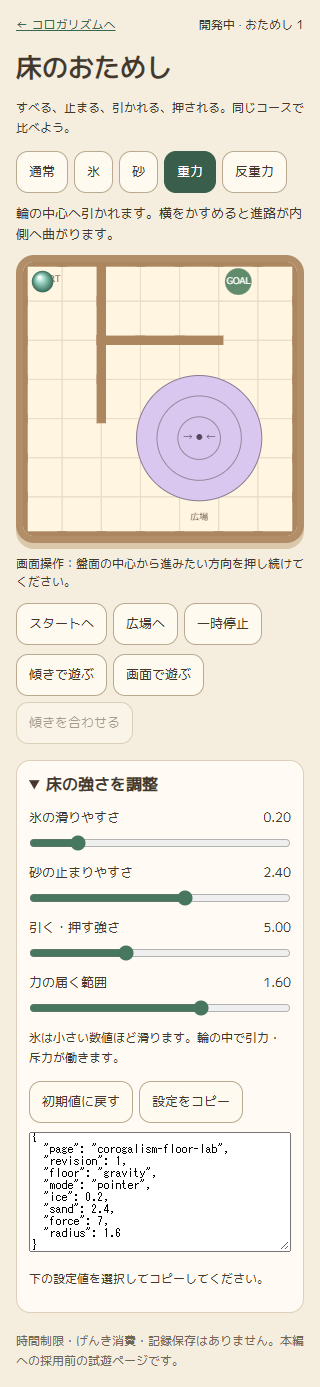
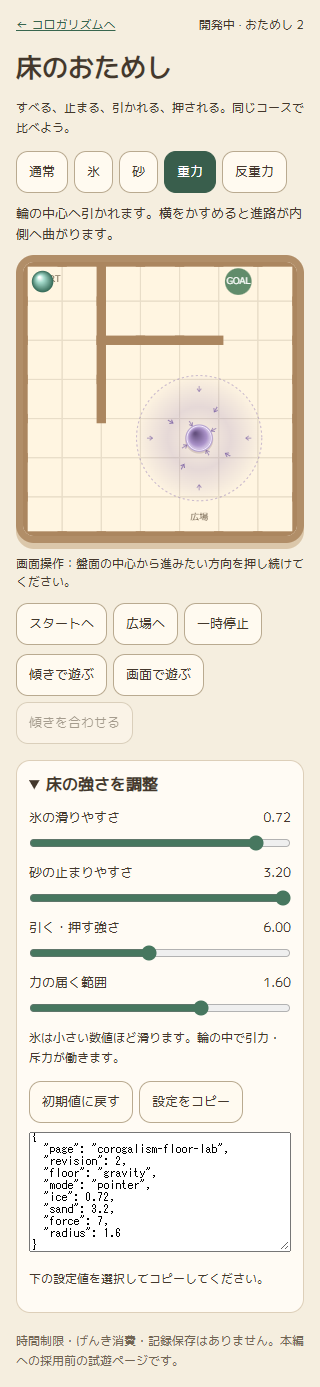
feat(T-248): visualize floor textures and radial forces

Changed region(s): [[0.4062, 0.248, 0.8125, 0.372], [0.2188, 0.589, 0.9062, 0.651], [0.375, 0.682, 0.5, 0.713]]

diff --git a/src/lab/floorVisuals.js b/src/lab/floorVisuals.js
@@ -1,0 +1,92 @@
+import { PATCH_CELLS } from './floorModel.js';
+
+// 物理に触れず、セル座標の描画だけを担当する。
+export function drawFloorVisuals(ctx, camera, { type, settings, actor, time, reduced }) {
+  ctx.save();
+  ctx.scale(camera.toPx(1), camera.toPx(1));
+  const circle = (x, y, r, fill) => {
+    ctx.beginPath(); ctx.arc(x, y, r, 0, Math.PI * 2);
+    if (fill) { ctx.fillStyle = fill; ctx.fill(); } else ctx.stroke();
+  };
+  const line = points => { ctx.beginPath(); points.forEach(([x,y], i) => i ? ctx.lineTo(x,y) : ctx.moveTo(x,y)); ctx.stroke(); };
+  const arrow = (x, y, angle, length, color) => {
+    ctx.save(); ctx.translate(x,y); ctx.rotate(angle); ctx.strokeStyle = color; ctx.lineWidth = .025;
+    line([[-length/2,0],[length/2,0]]);
+    line([[length/2-.07,-.055],[length/2,0],[length/2-.07,.055]]); ctx.restore();
+  };
+  if (type === 'ice' || type === 'sand') {
+    for (const {x,y} of PATCH_CELLS) {
+      ctx.save(); ctx.beginPath(); ctx.rect(x+.025,y+.025,.95,.95); ctx.clip();
+      const tint = ctx.createLinearGradient(x,y,x+1,y+1);
+      tint.addColorStop(0, type === 'ice' ? '#e6fbfc' : '#f6dfaa');
+      tint.addColorStop(1, type === 'ice' ? '#91d0df' : '#d7b375');
+      ctx.fillStyle = tint; ctx.fillRect(x,y,1,1);
+      if (type === 'ice') {
+        ctx.strokeStyle = '#ffffffbd'; ctx.lineWidth = .026;
+        line([[x+.1,y+.02],[x+.4,y+.35],[x+.3,y+.65],[x+.58,y+.98]]);
+        line([[x+.4,y+.35],[x+.72,y+.25],[x+.98,y+.42]]);
+        ctx.strokeStyle = '#ffffff69'; ctx.lineWidth = .11;
+        line([[x+.05,y+.7],[x+.7,y+.05]]);
+        ctx.lineWidth = .025; line([[x+.25,y+.96],[x+.97,y+.24]]);
+      } else {
+        ctx.strokeStyle = '#a87b3d40'; ctx.lineWidth = .02;
+        for (let j=0;j<4;j++) {
+          ctx.beginPath(); ctx.moveTo(x,y+.15+j*.23);
+          ctx.bezierCurveTo(x+.3,y+j*.23,x+.6,y+.35+j*.23,x+1,y+.18+j*.23); ctx.stroke();
+        }
+        for (let j=0;j<22;j++) {
+          const px = ((j*37+x*17+y*13)%97)/97, py=((j*59+x*11+y*7)%89)/89;
+          circle(x+px,y+py,.009+(j%3)*.003,j%2 ? '#a9874a77' : '#fff1c7');
+        }
+      }
+      ctx.restore();
+    }
+    const onSand = type === 'sand' && PATCH_CELLS.some(c=>c.x===Math.floor(actor.x)&&c.y===Math.floor(actor.y));
+    const speed = Math.hypot(actor.vx,actor.vy);
+    if (onSand && speed > .15 && !reduced) {
+      const angle=Math.atan2(actor.vy,actor.vx);
+      for(let i=0;i<7;i++) {
+        const age=(time/650+i/7)%1, side=Math.sin(i*13)*.12;
+        const back=actor.r+.08+age*.35;
+        circle(actor.x-Math.cos(angle)*back-Math.sin(angle)*side,actor.y-Math.sin(angle)*back+Math.cos(angle)*side,.025+age*.035,`rgba(172,131,64,${(1-age)*.35})`);
+      }
+    }
+  }
+  if (type === 'gravity' || type === 'repulsion') {
+    const inward=type==='gravity', x=4.5, y=4.5, radius=settings.radius;
+    const rgb=inward?'127,102,175':'208,122,75';
+    const color=inward?'#8066a6':'#b5683f';
+    const membrane=ctx.createRadialGradient(x,y,0,x,y,radius);
+    membrane.addColorStop(0,`rgba(${rgb},0.04)`);
+    membrane.addColorStop(.5,`rgba(${rgb},0.20)`);
+    membrane.addColorStop(1,`rgba(${rgb},0.015)`);
+    circle(x,y,radius,membrane);
+    ctx.strokeStyle=`rgba(${rgb},0.60)`; ctx.lineWidth=.02; ctx.setLineDash([.055,.065]); circle(x,y,radius); ctx.setLineDash([]);
+    // 中間で最も強い物理の分布と、流れの濃さを合わせる。
+    for(let i=0;i<12;i++) {
+      const angle=i*Math.PI/6;
+      const phase=reduced ? .52 : (time/2600+(i%3)/3)%1;
+      const u=.12+.78*(inward?1-phase:phase);
+      ctx.globalAlpha=.18+.65*4*u*(1-u);
+      arrow(x+Math.cos(angle)*radius*u,y+Math.sin(angle)*radius*u,angle+(inward?Math.PI:0),.14,color);
+    }
+    ctx.globalAlpha=1;
+    // 凹んだすり鉢と凸のドームを陰影・輪郭で区別する。
+    circle(x,y+.035,.36,'#6a4d4430');
+    circle(x,y,.35,inward?'#b5a2ce':'#dcb493');
+    const disk=ctx.createRadialGradient(x-.1,y-.12,.025,x,y,.31);
+    disk.addColorStop(0,inward?'#65517f':'#fff1cf');
+    disk.addColorStop(.7,inward?'#aa92c9':'#e5b485');
+    disk.addColorStop(1,inward?'#e0d4eb':'#a76945');
+    circle(x,y,.29,disk);
+    ctx.strokeStyle=inward?'#f4eaff':'#9b603e'; ctx.lineWidth=.025; circle(x,y,.31);
+    const dx=x-actor.x,dy=y-actor.y,d=Math.hypot(dx,dy);
+    if(d>0.02&&d<radius) {
+      const a=Math.atan2(dy,dx)+(inward?0:Math.PI), u=d/radius;
+      ctx.globalAlpha=4*u*(1-u);
+      // 球の手前を隠さず、力が働く方向へ短い矢印を添える。
+      arrow(actor.x+Math.cos(a)*(actor.r+.16),actor.y+Math.sin(a)*(actor.r+.16),a,.22,color);
+    }
+  }
+  ctx.restore();
+}

diff --git a/src/lab/floorLab.js b/src/lab/floorLab.js
@@ -6,12 +6,15 @@ import { createTiltSource } from '../input/tiltSource.js';
 import { createPointerSource } from '../input/pointerSource.js';
 import { createFloorLab, applyFloor, FLOOR_OPTIONS, PATCH_CELLS } from './floorModel.js';
 
+import { drawFloorVisuals } from './floorVisuals.js';
+
 const $ = id => document.getElementById(id);
 const canvas = $('board'), ctx = canvas.getContext('2d');
 const { stage, actor } = createFloorLab();
 const settings = { ...FLOOR_LAB }, tilt = createTiltVector();
 let type = 'normal', mode = 'pointer', paused = false, last = 0, sensorTimer, requestId = 0;
-let camera, won = false;
+let camera, won = false, visualTime = 0;
+const reducedMotion = matchMedia('(prefers-reduced-motion: reduce)');
 const pointer = createPointerSource(canvas);
 const sensor = createTiltSource({ onCalibrated: () => { $('status').textContent = '傾き操作中。縦持ちでゆっくり傾けてください。'; } });
 const receive = (x, y) => tilt.setRaw(x, y);
@@ -58,7 +61,7 @@ for (const [key, option] of Object.entries(FLOOR_OPTIONS)) {
 for (const key of Object.keys(settings)) $(key).oninput = () => { settings[key] = Number($(key).value); updateFloor(); };
 $('defaults').onclick = () => { Object.assign(settings, FLOOR_LAB); updateFloor(); reset(); };
 $('copy').onclick = async () => {
-  const text = JSON.stringify({ page: 'corogalism-floor-lab', revision: 1, floor: type, mode, ...settings }, null, 2);
+  const text = JSON.stringify({ page: 'corogalism-floor-lab', revision: 2, floor: type, mode, ...settings }, null, 2);
   $('settings-text').hidden = false; $('settings-text').value = text;
   try { await navigator.clipboard.writeText(text); $('copy-status').textContent = 'コピーしました。この設定と感想を送ってください。'; }
   catch { $('settings-text').focus(); $('settings-text').select(); $('copy-status').textContent = '下の設定値を選択してコピーしてください。'; }
@@ -86,22 +89,7 @@ function draw(now) {
   for (let y = 0; y < 7; y++) for (let x = 0; x < 7; x++) {
     const p = camera.toScreen(x, y); ctx.strokeStyle = '#e8ddc8'; ctx.strokeRect(p.px, p.py, camera.toPx(1), camera.toPx(1));
   }
-  if (type === 'ice' || type === 'sand') for (const cell of PATCH_CELLS) {
-    const p = camera.toScreen(cell.x, cell.y); ctx.fillStyle = FLOOR_OPTIONS[type].color;
-    ctx.fillRect(p.px, p.py, camera.toPx(1), camera.toPx(1));
-    label(type === 'ice' ? '╱ ╱' : '· ∴ ·', cell.x + .5, cell.y + .6);
-  }
-  if (type === 'gravity' || type === 'repulsion') {
-    circle(4.5, 4.5, settings.radius, FLOOR_OPTIONS[type].color);
-    circle(4.5, 4.5, settings.radius, '#887a91', true);
-    const reduced = matchMedia('(prefers-reduced-motion: reduce)').matches;
-    const phase = reduced ? .5 : (now / 2400) % 1;
-    for (let i = 0; i < 3; i++) {
-      const q = (phase + i / 3) % 1;
-      circle(4.5, 4.5, settings.radius * (type === 'gravity' ? 1 - q : q), '#98869c', true);
-    }
-    label(type === 'gravity' ? '→ ● ←' : '← ● →', 4.5, 4.55, '#56445b');
-  }
+  drawFloorVisuals(ctx, camera, { type, settings, actor, time: visualTime, reduced: reducedMotion.matches });
   for (const wall of stage.walls) { const p = camera.toScreen(wall.x, wall.y); ctx.fillStyle = '#ab865f'; ctx.fillRect(p.px, p.py, camera.toPx(wall.w), camera.toPx(wall.h)); }
   circle(5.5, .5, .34, '#618c6b'); label('GOAL', 5.5, .57, '#fff');
   label('START', .6, .5); label('広場', 4.5, 6.6);
@@ -114,6 +102,7 @@ function draw(now) {
 function frame(now) {
   const dt = Math.min((now - (last || now)) / 1000, .05); last = now;
   if (!paused && !document.hidden && !(mode === 'tilt' && sensor.needsCalibration)) {
+    visualTime += dt * 1000;
     // 描画頻度による操作差を抑え、小さい刻みで既存の物理を進める。
     const count = Math.max(1, Math.ceil(dt / (1 / 120)));
     for (let i = 0; i < count; i++) { tilt.update(dt / count, BASE.inputSmoothing); stepPhysics({ actor, stage, tilt: tilt.value, base: BASE, dt: dt / count }); }

diff --git a/floor-lab.html b/floor-lab.html
@@ -7,7 +7,7 @@
   <link rel="stylesheet" href="floor-lab.css">
 </head>
 <body><main>
-  <header><a href="./">← コロガリズムへ</a><span>開発中 · おためし 1</span></header>
+  <header><a href="./">← コロガリズムへ</a><span>開発中 · おためし 2</span></header>
   <h1>床のおためし</h1>
   <p class="intro">すべる、止まる、引かれる、押される。同じコースで比べよう。</p>
   <nav id="floors" aria-label="床を選ぶ"></nav>
@@ -17,9 +17,9 @@
   <div class="buttons"><button id="reset">スタートへ</button><button id="plaza">広場へ</button><button id="pause">一時停止</button></div>
   <div class="buttons"><button id="sensor">傾きで遊ぶ</button><button id="pointer">画面で遊ぶ</button><button id="calibrate" disabled>傾きを合わせる</button></div>
   <details open><summary>床の強さを調整</summary>
-    <label>氷の滑りやすさ <output id="ice-value"></output><input id="ice" type="range" min="0.08" max="0.8" step="0.04" value="0.2"></label>
-    <label>砂の止まりやすさ <output id="sand-value"></output><input id="sand" type="range" min="1.2" max="3.2" step="0.1" value="2.4"></label>
-    <label>引く・押す強さ <output id="force-value"></output><input id="force" type="range" min="1" max="12" step="0.5" value="5"></label>
+    <label>氷の滑りやすさ <output id="ice-value"></output><input id="ice" type="range" min="0.08" max="0.8" step="0.04" value="0.72"></label>
+    <label>砂の止まりやすさ <output id="sand-value"></output><input id="sand" type="range" min="1.2" max="3.2" step="0.1" value="3.2"></label>
+    <label>引く・押す強さ <output id="force-value"></output><input id="force" type="range" min="1" max="12" step="0.5" value="6"></label>
     <label>力の届く範囲 <output id="radius-value"></output><input id="radius" type="range" min="0.8" max="2" step="0.1" value="1.6"></label>
     <p class="note">氷は小さい数値ほど滑ります。輪の中で引力・斥力が働きます。</p>
     <div class="buttons"><button id="defaults">初期値に戻す</button><button id="copy">設定をコピー</button></div>

diff --git a/test/floor-lab.test.js b/test/floor-lab.test.js
@@ -16,7 +16,7 @@ test('同じ初速の球は氷、通常、砂の順に遠くまで滑る', () =>
     for (let i = 0; i < 60; i++) stepPhysics({ actor, stage, tilt: { x: 0, y: 0 }, base: BASE, dt: 1 / 120 });
     return actor.x - 3.3;
   });
-  assert.ok(distances[0] > distances[1] * 1.4);
+  assert.ok(distances[0] > distances[1] * 1.1);
   assert.ok(distances[1] > distances[2] * 1.4);
 });
 test('重力と反重力は接近・通過の力が逆、中心と範囲外は力なし', () => {

diff --git a/precache.js b/precache.js
@@ -1,4 +1,4 @@
-self.PRECACHE_VERSION = '471a07c0646865f1';
+self.PRECACHE_VERSION = 'd4603eb46b086ed3';
 self.PRECACHE_FILES = [
   "assets/audio/bgm.wav",
   "assets/audio/rolling-loop.wav",
@@ -47,6 +47,7 @@ self.PRECACHE_FILES = [
   "src/lab/boot.js",
   "src/lab/floorLab.js",
   "src/lab/floorModel.js",
+  "src/lab/floorVisuals.js",
   "src/main.js",
   "src/maze/generator.js",
   "src/maze/path.js",

diff --git a/src/config/gameConfig.js b/src/config/gameConfig.js
@@ -18,7 +18,7 @@ export const BASE = {
 };
 
 /** T-247: おためし専用。正式な床の採用値ではない。 */
-export const FLOOR_LAB = { ice: 0.2, sand: 2.4, force: 5, radius: 1.6 };
+export const FLOOR_LAB = { ice: 0.72, sand: 3.2, force: 6, radius: 1.6 };
 
 /**
  * 実効値のクランプ範囲。

diff --git a/docs/floor-lab.md b/docs/floor-lab.md
@@ -4,7 +4,7 @@
 
 入口は `/floor-lab.html`。本編の床抽選やキャラクターには追加しない。通常・氷・砂・重力・反重力を同じ7×7固定コースで切り替える。左の直線、下の曲がり角、右の広場を配置し、全セルのBFS到達性を検証する。スタートと広場への移動、一時停止、傾き基準の再調整が可能。時間制限、HP消費、記録保存はない。
 
-氷・砂は着色したセルでのみ摩擦係数を変更する。球の中心で判定。氷0.2倍、砂2.4倍が試遊初期値。重力・反重力は広場の中心(4.5,4.5)から半径1.6セル、最大加速度5セル/s²。力の大きさは `4 * strength * u * (1-u)`（u=中心距離/半径）。中心・外縁は0、半径の半分で最大となり、中心でも力が連続。反重力は符号を逆にする。輪の動きも内向き／外向きで区別し、動きを減らす設定では静止する。
+氷・砂は着色したセルでのみ摩擦係数を変更する。球の中心で判定。氷0.72倍、砂3.2倍が試遊初期値。重力・反重力は広場の中心(4.5,4.5)から半径1.6セル、最大加速度6セル/s²。力の大きさは `4 * strength * u * (1-u)`（u=中心距離/半径）。中心・外縁は0、半径の半分で最大となり、中心でも力が連続。反重力は符号を逆にする。輪の動きも内向き／外向きで区別し、動きを減らす設定では静止する。
 
 摩擦と外力は既存のゾーンとresolveParamsを経由。速度上限、サブステップ、円と矩形の衝突を維持する。床を切り替えると球はスタートに戻り、強さの調整中はその場に留まる。設定はページ内で保持し、再読み込み時に初期値へ戻る。設定コピーに選択床・操作方式・全調整値・試遊版番号を含め、コピー不可時は選択できるテキストを表示する。
 
@@ -19,3 +19,12 @@
 - 公開後に必要: 実機で傾き操作の手触りと4種類の強さを試遊。本編採用は未決定。
 
 公開・検証完了: e61583b / Pages35706033174。公開URLでブラウザ3幅・センサー3経路・旧PWA案内・オフラインを確認済み。自動テスト127件成功。
+
+
+## T-248 おためし2：床の質感と力の可視化
+
+ユーザーの試遊値（氷0.72・砂3.2・力6・半径1.6）を初期値に反映。設定コピーと画面表記はおためし2。物理の計算方式と配置は維持。
+
+氷は半透明風のグラデーション・ひび・光沢、砂は粒・砂紋・走行中の控えめな砂ぼこり。重力は凹円盤、反重力は凸円盤。実際の半径に合わせた点線と、外縁で薄くなる膜で範囲を表示。中間で強まる力に合わせ、流れる矢印の濃さを調整。範囲内の球の横にも力の方向を表示する。停止中は演出時計も停止。動きを減らす設定では流れを固定し、砂ぼこりを省く。
+
+127テスト、browser-floor-labの3幅・センサー3経路・コピー・オフライン・旧PWA案内成功。氷の滑走距離テストは新しい穏やかな設定に合わせ、通常比10%以上長く滑ることを確認（旧0.2では40%以上）。browser-floor-visualsで4床の描画と停止・動きを減らす設定の静止を確認。証跡docs/verification/floor-visuals。

diff --git a/docs/handoff-codex.md b/docs/handoff-codex.md
@@ -2,6 +2,8 @@
 
 ## 現在地
 
+- T-248: おためし2へ更新。床の質感と力の影響範囲・方向表示を追加。初期値はユーザー試遊値（氷0.72・砂3.2・力6・範囲1.6）。
+
 - T-247: 別ページ `floor-lab.html` に床のおためしを追加。通常・氷・砂・重力・反重力の切替、強さ調整・設定コピー。仕様は[床のおためし](floor-lab.md)。本編への採用は実機試遊後に判断する。
 
 - 公開版は **v0.5.6**。正式URL: https://corogalism.sikumilab.com/ 。公開アプリbb07eac、2026-09-20のPages35490993305成功。公開証跡は[deployment.md](deployment.md)。
